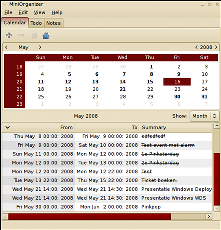
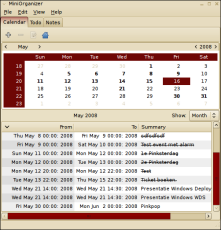
New screenshots. Development page. Small changes to the 'About' page.
git-svn-id: https://svn.electricmonk.nl/svn/miniorganizer/trunk@60 37481b89-4a6d-4120-abc7-7d70a5cf72f2

Changed region(s): [[0.0, 0.0, 1.0, 1.0]]

diff --git a/website/pages/screenshots.php b/website/pages/screenshots.php
@@ -8,11 +8,20 @@
 	<tr valign='top'>
 		<td>
 			<b>Add Calendar event</b><br />
-			<img src='screenshots/0.2/event_edit.png' /><br />
+			<a href="screenshots/0.2/event_edit.png"><img border="0" src='screenshots/0.2/th_event_edit.png' /></a><br />
 		</td>
 		<td>
 			<b>Recurrence edit</b><br />
-			<img src='screenshots/0.2/event_edit_recur.png' /><br />
+			<a href="screenshots/0.2/event_edit_recur.png"><img border="0" src='screenshots/0.2/th_event_edit_recur.png' /></a><br />
+		</td>
+	</tr>
+	<tr valign='top'>
+		<td>
+			<b>Alarm reminder</b><br />
+			<a href="screenshots/0.2/reminder.png"><img border="0" src='screenshots/0.2/th_reminder.png' /></a><br />
+		</td>
+		<td>
+			&nbsp;
 		</td>
 	</tr>
 </table>
@@ -23,28 +32,30 @@
 	<tr valign='top'>
 		<td>
 			<b>Calendar</b><br />
-			<img src='screenshots/0.1/calendar.png' /><br />
+			<a href="screenshots/0.1/calendar.png"><img border="1"src='screenshots/0.1/th_calendar.png' /></a><br />
 			The calendar view shows the current month. Each day in the calendar is highlighted if an event for that day has been scheduled. Clicking on one such day will highlight the event that is scheduled for that day. The list shows all the events for the currently selected day, week, month or year. Selecting an event in the list will jump to that day in the calendar. Past events are shown with a line through them. Any events which are currently happening are shown in bold.
 		</td>
 		<td>
 			<b>Todo</b><br />
-			<img src='screenshots/0.1/todo.png' /><br />
+			<a href="screenshots/0.1/todo.png"><img border="1"src='screenshots/0.1/th_todo.png' /></a><br />
 			The Todo list shows all your todos. The due-date will be shown in red if the task is overdue. The checkmark box can be clicked to mark the todo item as done. Adding sub-todos can be achieved by selecting a todo and then selecting the 'Add sub-todo' icon in the toolbar.
 		</td>
 	</tr>
 	<tr valign='top'>
 		<td>
 			<b>Notes</b><br />
-			<img src='screenshots/0.1/notes.png' /><br />
+			<a href="screenshots/0.1/notes.png"><img border="1"src='screenshots/0.1/th_notes.png' /></a><br />
 			The notes haven't been implemented yet, but this is soon to come.
 		</td>
 	</tr>
 	<tr valign='top'>
 		<td>
 			<b>Add calendar event</b><br />
-			<img src='screenshots/0.1/calendar_add.png' /><br />
+			<a href="screenshots/0.1/calendar_add.png"><img border="1"src='screenshots/0.1/th_calendar_add.png' /></a><br />
 			Adding a new event to the calendar. The 'Whole day event' checkbox disables the entry for times, and means the events will run the whole day long. You can specify as many alarms for the event as you like.
 		</td>
-		<td><b>Add todo</b><br /><img src='screenshots/0.1/todo_add.png' /></td>
+		<td>
+			<b>Add todo</b><br />
+			<a href="screenshots/0.1/todo_add.png"><img border="1"src='screenshots/0.1/th_todo_add.png' /></a><br />
 	</tr>
 </table>

diff --git a/website/pages/development.php b/website/pages/development.php
@@ -1,0 +1,17 @@
+<h1>Development</h1>
+
+<p>MiniOrganizer is still in development. Although it is useable in real life (I do), it may still contain bugs.</p>
+<ul>
+<li>Go <a href="https://svn.electricmonk.nl/trac/miniorganizer/newticket">here</a> to report a bug or feature request. (Go <a href="https://svn.electricmonk.nl/trac/miniorganizer/report/1">here</a> first to see if your bug has already been reported)</li>
+<li>Go <a href="https://svn.electricmonk.nl/public/listing.php?repname=miniorganizer&path=%2F&sc=0">here</a> to view the Subversion source</li>
+</ul>
+
+<p>Want to help out with development of MiniOrganizer? You can help with:</p>
+<ul>
+<li>Testing out MiniOrganizer and reporting bugs</li>
+<li>Trying out MiniOranizer and writing up installation instructions for your platform/Operating System</li>
+<li>Read and improve the documentation</li>
+<li>Fix <a href="https://svn.electricmonk.nl/trac/miniorganizer/report/1">bugs</a></li>
+</ul>
+
+<p>You can submit your improvements, bug reports, feature requests, documentation improvements, patches, etc, to the <a href="https://svn.electricmonk.nl/trac/miniorganizer/newticket">ticket system</a></p>

diff --git a/website/pages/about.php b/website/pages/about.php
@@ -25,6 +25,7 @@ todos.</p>
 <li> <p> Python DateUtil </p> </li>
 <li> <p> Python Glade2 </p> </li>
 </ul>
+<p>Most modern Linux desktops (Debian, Ubuntu confirmed) already have all of these except dateutil (<tt>easy_install dateutil</tt>) installed.</p>
 
 <h3>Instructions</h3>
 <p>Please see the <a href="/documentation/userguide-0.2.html">userguide</a> for installation instructions.</p>

diff --git a/website/index.php b/website/index.php
@@ -7,7 +7,8 @@ $menu = array(
 	"about" => "About",
 	"news" => "News",
 	"download" => "Download",
-	"screenshots" => "Screenshots"
+	"screenshots" => "Screenshots",
+	"development" => "Development",
 );
 
 // Client side vars
